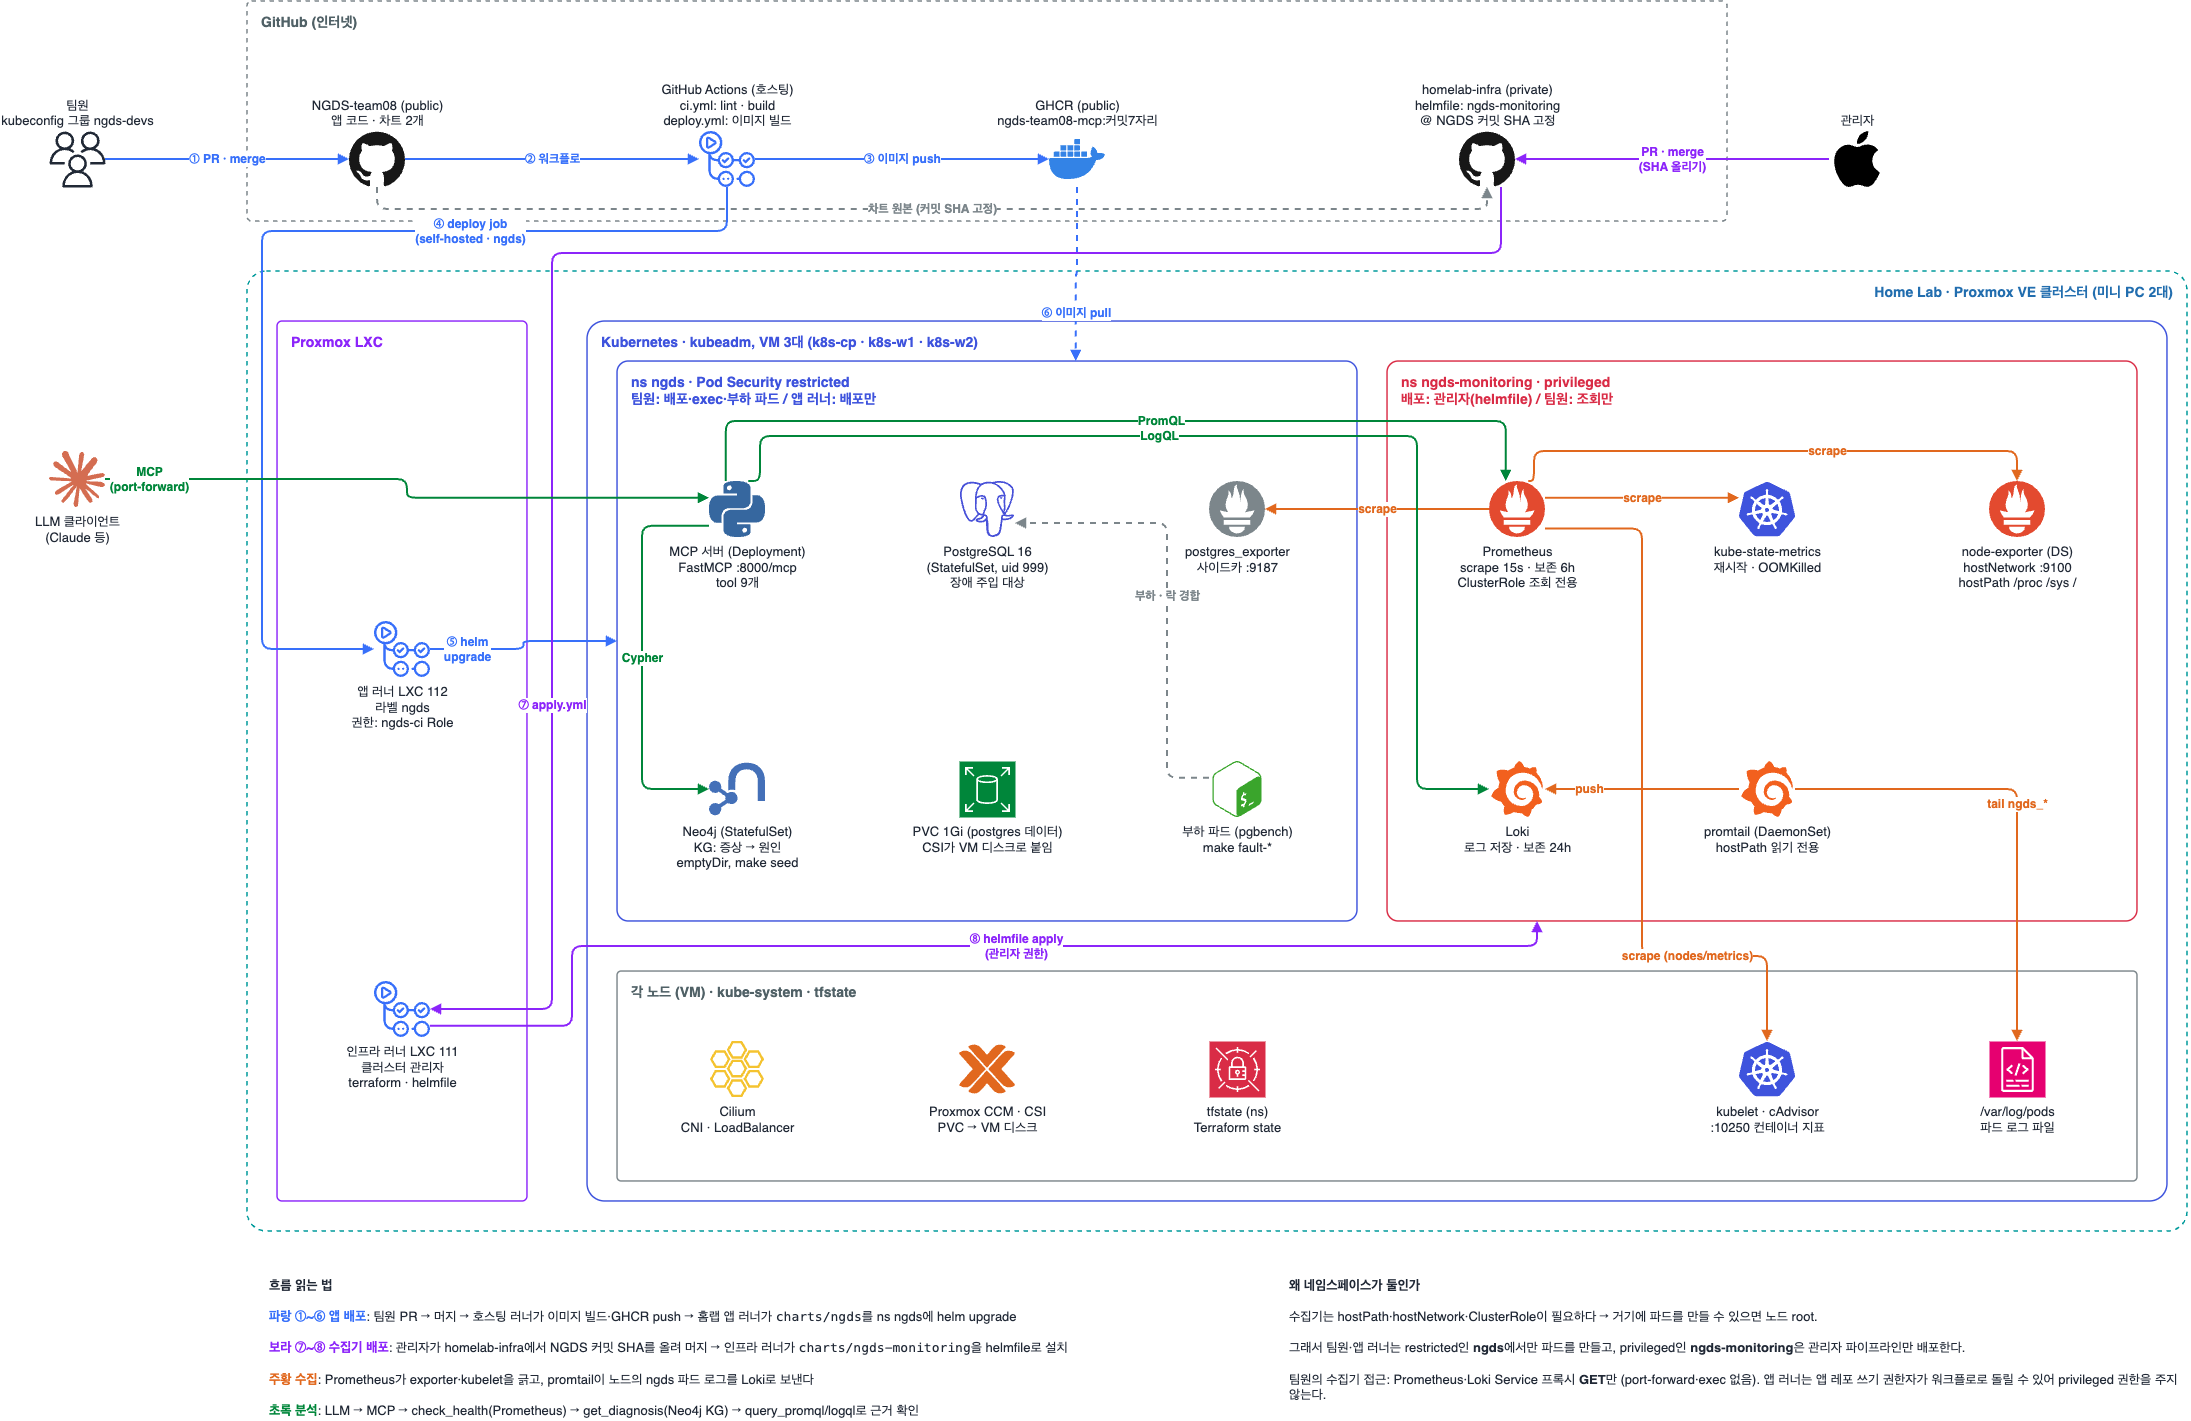
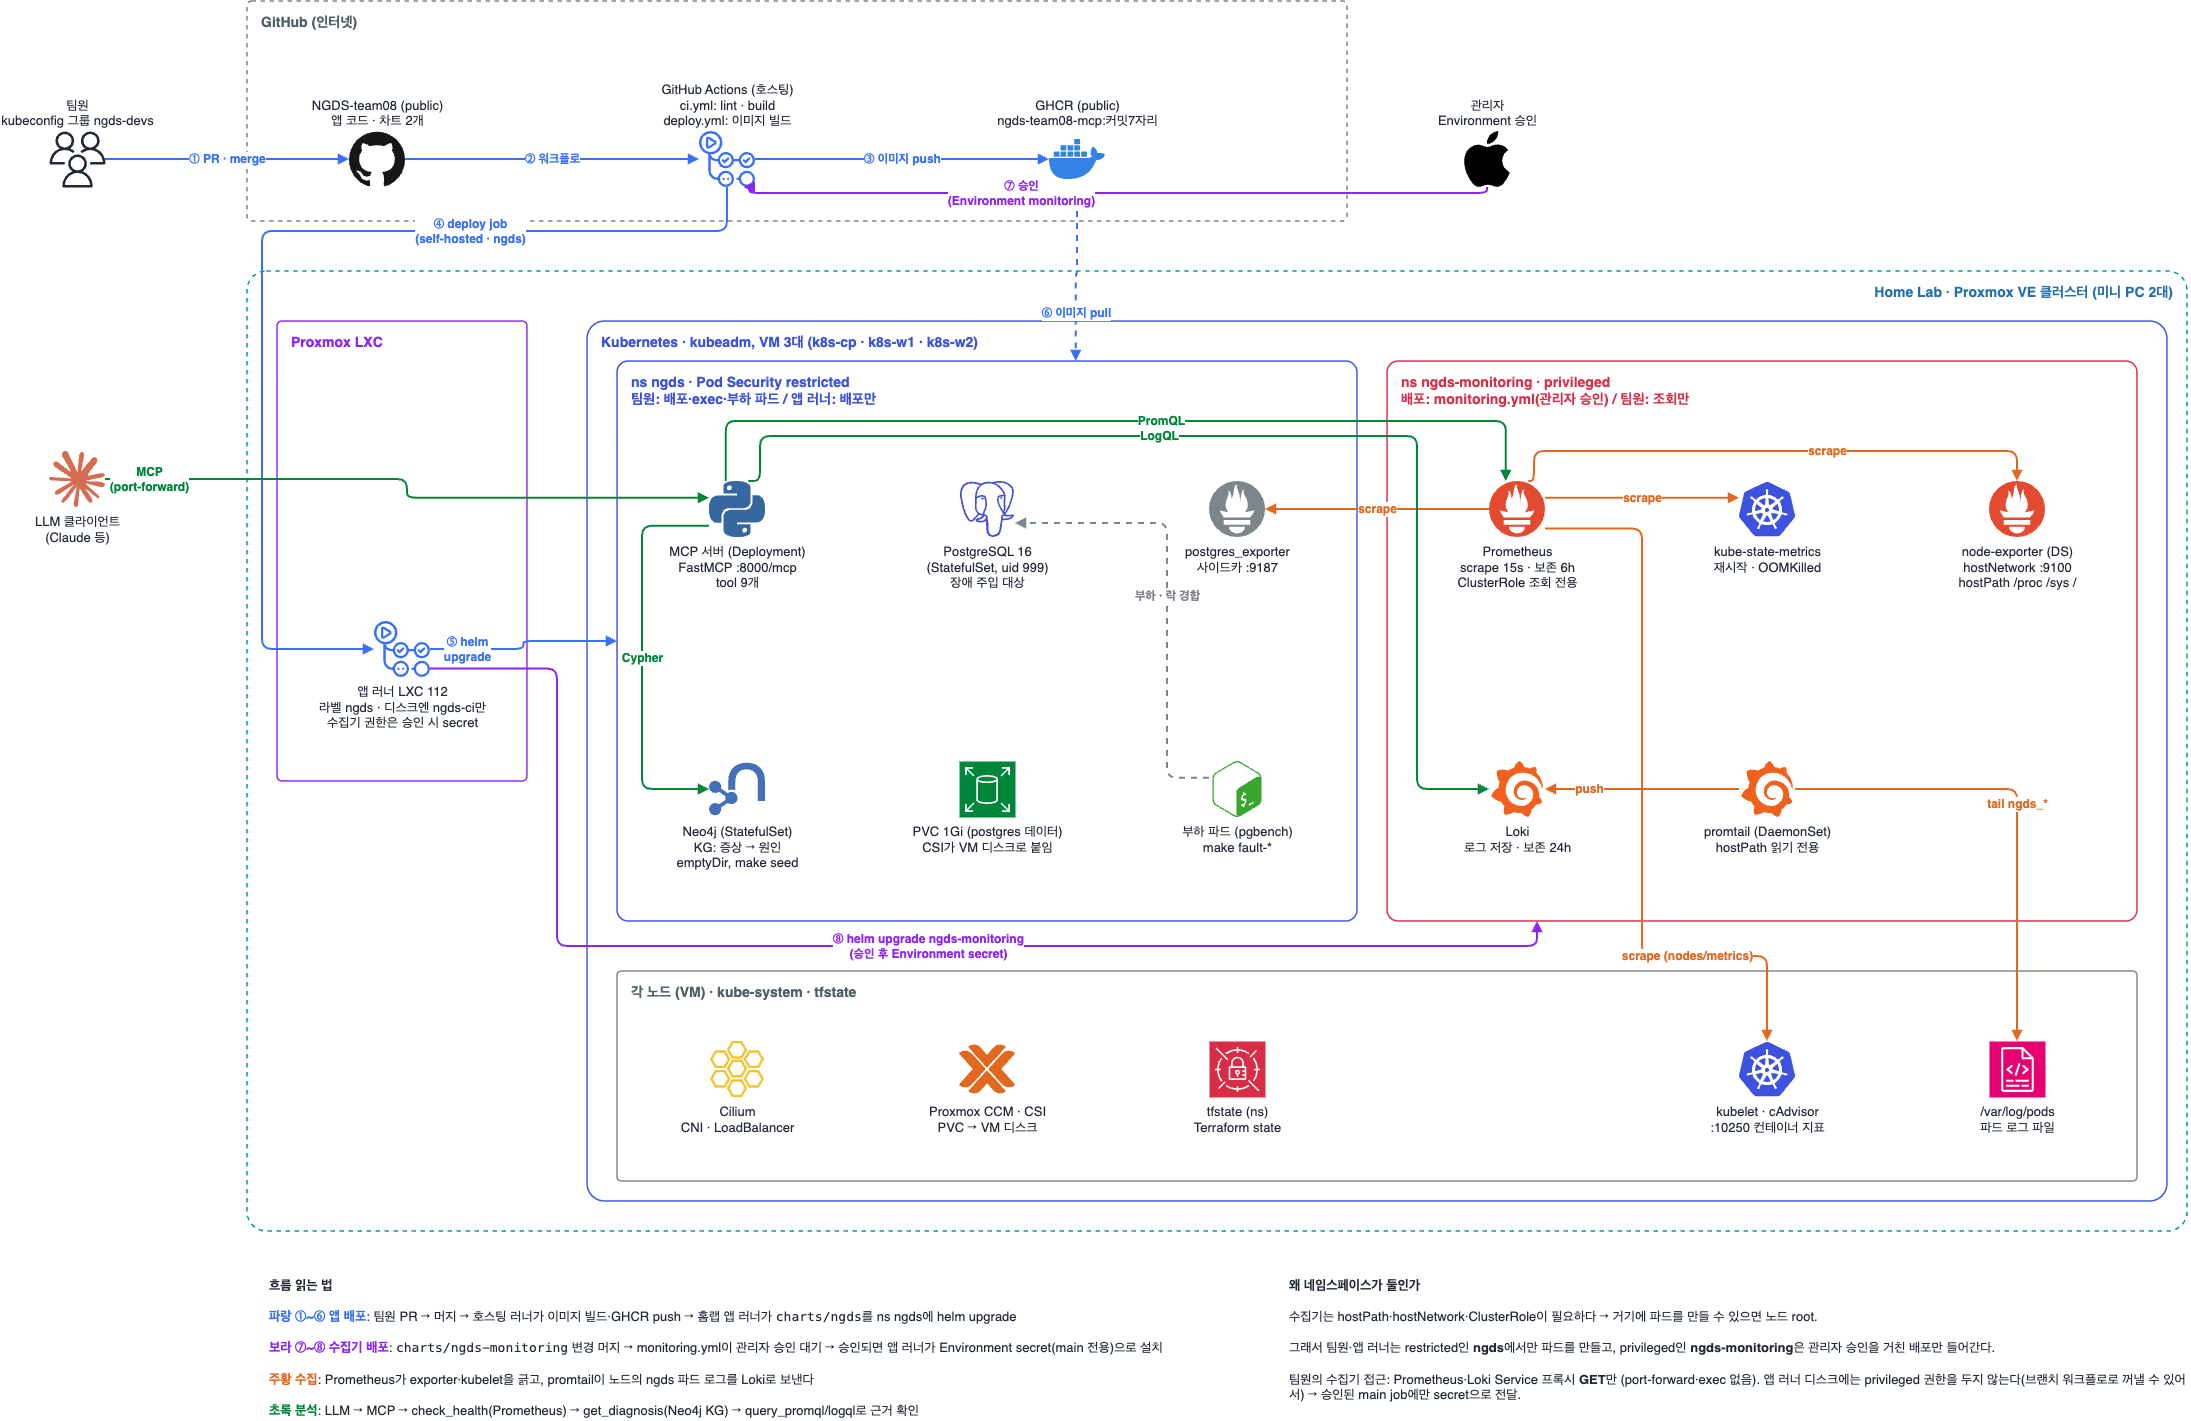
feat: 수집기도 이 레포에서 배포 — monitoring.yml + Environment 승인
- kubeconfig(그룹 ngds-monitoring-ci)는 Environment monitoring secret에만 (main 브랜치 + 관리자 승인), 러너 디스크엔 없음
- ClusterRole은 차트에서 빼서 cluster/namespace-rbac.yaml(관리자)로 (ngds-prometheus, ngds-kube-state-metrics)
- runner-setup.sh가 Environment·secret도 만들고 갱신
- README·구성도 갱신

diff --git a/docs/generators/architecture.py b/docs/generators/architecture.py
@@ -29,19 +29,17 @@ R,L,T,B=(1,.5),(0,.5),(.5,0),(.5,1)
 BLUE,RED,GH,ORG,GRN,PUR,GRY="#326CE5","#DD344C","#2088FF","#E57000","#1E8E3E","#8C4FFF","#879196"
 
 # ---------- 외부: GitHub ----------
-grp("GitHub (인터넷)",320,20,1480,220,GRY,"#5A6C72",dashed=1)
+grp("GitHub (인터넷)",320,20,1100,220,GRY,"#5A6C72",dashed=1)
 dev=users("팀원\nkubeconfig 그룹 ngds-devs",150,150,top=True)
 repo=logo("NGDS-team08 (public)\n앱 코드 · 차트 2개",450,150,"github","181717",top=True)
 act=logo("GitHub Actions (호스팅)\nci.yml: lint · build\ndeploy.yml: 이미지 빌드",800,150,"githubactions",GH[1:],top=True)
 ghcr=logo("GHCR (public)\nngds-team08-mcp:커밋7자리",1150,150,"docker","2496ED",top=True)
-infra=logo("homelab-infra (private)\nhelmfile: ngds-monitoring\n@ NGDS 커밋 SHA 고정",1560,150,"github","181717",top=True)
-adm=logo("관리자",1930,150,"apple","000000",top=True)
+adm=logo("관리자\nEnvironment 승인",1560,150,"apple","000000",top=True)
 
 # ---------- 홈랩 ----------
 grp("Home Lab  ·  Proxmox VE 클러스터 (미니 PC 2대)",320,290,1940,960,"#00A4A6","#147EBA",dashed=1,align="right")
-grp("Proxmox LXC",350,340,250,880,PUR,PUR)
-appr=logo("앱 러너 LXC 112\n라벨 ngds\n권한: ngds-ci Role",475,640,"githubactions",GH[1:])
-infr=logo("인프라 러너 LXC 111\n클러스터 관리자\nterraform · helmfile",475,1000,"githubactions",GH[1:])
+grp("Proxmox LXC",350,340,250,460,PUR,PUR)
+appr=logo("앱 러너 LXC 112\n라벨 ngds · 디스크엔 ngds-ci만\n수집기 권한은 승인 시 secret",475,640,"githubactions",GH[1:])
 
 grp("Kubernetes  ·  kubeadm, VM 3대 (k8s-cp · k8s-w1 · k8s-w2)",660,340,1580,880,BLUE,BLUE)
 gn=grp("ns ngds  ·  Pod Security restricted\n팀원: 배포·exec·부하 파드 / 앱 러너: 배포만",690,380,740,560,BLUE,BLUE)
@@ -52,7 +50,7 @@ neo=logo("Neo4j (StatefulSet)\nKG: 증상 → 원인\nemptyDir, make seed",810,7
 pvc=aws("PVC 1Gi (postgres 데이터)\nCSI가 VM 디스크로 붙임",1060,780,"elastic_block_store",GRN)
 load=logo("부하 파드 (pgbench)\nmake fault-*",1310,780,"gnubash","4EAA25")
 
-gm=grp("ns ngds-monitoring  ·  privileged\n배포: 관리자(helmfile) / 팀원: 조회만",1460,380,750,560,RED,RED)
+gm=grp("ns ngds-monitoring  ·  privileged\n배포: monitoring.yml(관리자 승인) / 팀원: 조회만",1460,380,750,560,RED,RED)
 prom=logo("Prometheus\nscrape 15s · 보존 6h\nClusterRole 조회 전용",1590,500,"prometheus","E6522C")
 ksm=logo("kube-state-metrics\n재시작 · OOMKilled",1840,500,"kubernetes","326CE5")
 nexp=logo("node-exporter (DS)\nhostNetwork :9100\nhostPath /proc /sys /",2090,500,"prometheus","E6522C")
@@ -76,10 +74,8 @@ e(act,appr,"④ deploy job\n(self-hosted · ngds)",GH,ex=B,en=L,pts=[(800,250),(
 e(appr,gn,"⑤ helm\nupgrade",GH,ex=R,en=(0,.5),lx=-0.62)
 e(ghcr,gn,"⑥ 이미지 pull",GH,dashed=1,ex=B,en=(.62,0),lx=0.45)
 # ---------- 관리자 흐름 (보라) ----------
-e(adm,infra,"PR · merge\n(SHA 올리기)",PUR,ex=L,en=R)
-e(repo,infra,"차트 원본 (커밋 SHA 고정)",GRY,dashed=1,ex=B,en=B,pts=[(450,228),(1560,228)])
-e(infra,infr,"⑦ apply.yml",PUR,ex=(.75,1),en=R,pts=[(1574,272),(625,272),(625,1028)],lx=0.55)
-e(infr,gm,"⑧ helmfile apply\n(관리자 권한)",PUR,ex=(1,.8),en=(.2,1),pts=[(645,1045),(645,965),(1610,965)],lx=0.1)
+e(adm,act,"⑦ 승인\n(Environment monitoring)",PUR,ex=B,en=(.8,1),pts=[(1560,212),(822,212)],lx=0.25)
+e(appr,gm,"⑧ helm upgrade ngds-monitoring\n(승인 후 Environment secret)",PUR,ex=(1,.85),en=(.2,1),pts=[(630,688),(630,965),(1610,965)],lx=0.1)
 
 # ---------- 데이터 흐름 ----------
 e(prom,pgx,"scrape",ORG,ex=L,en=R)
@@ -96,13 +92,13 @@ e(load,pg,"부하 · 락 경합",GRY,dashed=1,ex=(0,.3),en=(1,.75),pts=[(1240,79
 
 text("""<b>흐름 읽는 법</b><br>
 <font color="#2088FF"><b>파랑 ①~⑥ 앱 배포</b></font>: 팀원 PR → 머지 → 호스팅 러너가 이미지 빌드·GHCR push → 홈랩 앱 러너가 <code>charts/ngds</code>를 ns ngds에 helm upgrade<br>
-<font color="#8C4FFF"><b>보라 ⑦~⑧ 수집기 배포</b></font>: 관리자가 homelab-infra에서 NGDS 커밋 SHA를 올려 머지 → 인프라 러너가 <code>charts/ngds-monitoring</code>을 helmfile로 설치<br>
+<font color="#8C4FFF"><b>보라 ⑦~⑧ 수집기 배포</b></font>: <code>charts/ngds-monitoring</code> 변경 머지 → monitoring.yml이 관리자 승인 대기 → 승인되면 앱 러너가 Environment secret(main 전용)으로 설치<br>
 <font color="#E57000"><b>주황 수집</b></font>: Prometheus가 exporter·kubelet을 긁고, promtail이 노드의 ngds 파드 로그를 Loki로 보낸다<br>
 <font color="#1E8E3E"><b>초록 분석</b></font>: LLM → MCP → check_health(Prometheus) → get_diagnosis(Neo4j KG) → query_promql/logql로 근거 확인""",340,1290,1000,140)
 text("""<b>왜 네임스페이스가 둘인가</b><br>
 수집기는 hostPath·hostNetwork·ClusterRole이 필요하다 → 거기에 파드를 만들 수 있으면 노드 root.<br>
-그래서 팀원·앱 러너는 restricted인 <b>ngds</b>에서만 파드를 만들고, privileged인 <b>ngds-monitoring</b>은 관리자 파이프라인만 배포한다.<br>
-팀원의 수집기 접근: Prometheus·Loki Service 프록시 <b>GET</b>만 (port-forward·exec 없음). 앱 러너는 앱 레포 쓰기 권한자가 워크플로로 돌릴 수 있어 privileged 권한을 주지 않는다.""",1360,1290,900,140)
+그래서 팀원·앱 러너는 restricted인 <b>ngds</b>에서만 파드를 만들고, privileged인 <b>ngds-monitoring</b>은 관리자 승인을 거친 배포만 들어간다.<br>
+팀원의 수집기 접근: Prometheus·Loki Service 프록시 <b>GET</b>만 (port-forward·exec 없음). 앱 러너 디스크에는 privileged 권한을 두지 않는다(브랜치 워크플로로 꺼낼 수 있어서) → 승인된 main job에만 secret으로 전달.""",1360,1290,900,140)
 
 diagram='<diagram name="NGDS 아키텍처" id="ngds"><mxGraphModel dx="2300" dy="1550" grid="1" gridSize="10" guides="1" tooltips="1" connect="1" arrows="1" fold="1" page="1" pageScale="1" pageWidth="2300" pageHeight="1460" math="0" shadow="0"><root><mxCell id="0"/><mxCell id="1" parent="0"/>'+"".join(cells)+'</root></mxGraphModel></diagram>'
 open('docs/architecture.drawio','w').write('<mxfile host="drawio">'+diagram+'</mxfile>')

diff --git a/README.md b/README.md
@@ -13,10 +13,12 @@ MAPE-K 관점에서 Knowledge는 그래프로 외부화하고, Analyze는 LLM과
 | 네임스페이스 | Pod Security | 내용 | 배포 주체 | 팀원 권한 |
 |---|---|---|---|---|
 | `ngds` | restricted | postgres(+exporter 사이드카), neo4j, mcp — `charts/ngds` | main 머지 → `deploy.yml` → 앱 러너(LXC 112, 라벨 `ngds`) | 배포·exec·port-forward·부하 파드 생성 |
-| `ngds-monitoring` | privileged | Prometheus, Loki, promtail, node-exporter, kube-state-metrics — `charts/ngds-monitoring` | 홈랩 인프라 레포 helmfile(관리자), 이 레포 커밋 SHA로 고정 | 조회·로그, Prometheus·Loki Service 프록시만 (port-forward 없음) |
+| `ngds-monitoring` | privileged | Prometheus, Loki, promtail, node-exporter, kube-state-metrics — `charts/ngds-monitoring` | main 머지 → `monitoring.yml` → **관리자 승인** 후 앱 러너 | 조회·로그, Prometheus·Loki Service 프록시 GET만 (port-forward 없음) |
 
 - **두 네임스페이스로 나눈 이유:** 수집기는 hostPath, hostNetwork, ClusterRole이 필요하다. 그 네임스페이스에 파드를 만들 수 있으면 노드 root를 잡을 수 있다. 그래서 팀원과 앱 러너는 restricted인 `ngds`에서만 파드를 만든다.
-- **`charts/ngds-monitoring`을 바꾸려면:** 이 레포에서 PR을 머지한 뒤, 관리자가 인프라 레포의 고정 SHA를 올려야 반영된다.
+- **`charts/ngds-monitoring`을 바꾸려면:** 이 레포에서 PR을 머지하면 `monitoring.yml`이 GitHub Environment `monitoring`에서 관리자 승인을 기다린다. 승인하면 배포된다.
+  - 배포용 kubeconfig(그룹 `ngds-monitoring-ci`)는 러너 디스크가 아니라 Environment secret에만 있다. 이 secret은 main 브랜치 job에만 전달된다. 그래서 브랜치에 워크플로를 push해도 privileged 권한을 얻을 수 없다.
+  - ClusterRole은 차트에 넣지 않는다. 관리자가 `make cluster-init`으로 만든다.
 - **MCP의 수집기 주소:** `prometheus.ngds-monitoring:9090`, `loki.ngds-monitoring:3100`.
 - **Prometheus가 kubelet/cAdvisor를 긁는 방법:** API 서버 프록시(`nodes/proxy`, kubelet exec까지 열리는 권한)는 쓰지 않는다. 노드 `:10250`에 직접 붙고 `nodes/metrics` 권한만 쓴다.
 - **kube-state-metrics 권한:** 수집하는 리소스만 읽는다(Secret 제외).
@@ -28,6 +30,7 @@ MAPE-K 관점에서 Knowledge는 그래프로 외부화하고, Analyze는 LLM과
 |---|---|---|---|
 | `ci.yml` | PR → main | GitHub 호스팅 | py_compile, `bash -n`, 두 차트 lint/template, docker build |
 | `deploy.yml` | main push(`src/`, `catalog/`, `charts/ngds/`, `Dockerfile`, 의존성), 수동 | 호스팅(빌드·GHCR push) → 앱 러너(배포) | `helm upgrade --install ngds charts/ngds`, 태그 = 커밋 7자리 |
+| `monitoring.yml` | main push(`charts/ngds-monitoring/`), 수동 | 앱 러너 + Environment `monitoring`(main만, 관리자 승인) | `helm upgrade --install ngds-monitoring`. kubeconfig는 job 동안만 임시 파일 |
 
 배포는 `helm upgrade`로 차트 기본값을 다시 적용한다. 그래서 장애 주입으로 바꾼 limit 같은 값은 배포할 때마다 원복된다.
 
@@ -41,10 +44,10 @@ MAPE-K 관점에서 Knowledge는 그래프로 외부화하고, Analyze는 LLM과
 ```bash
 make cluster-init                                  # 네임스페이스 2개·권한 (재적용 가능)
 cluster/issue-kubeconfig.sh <팀원이름> [API 주소]   # 팀원 kubeconfig (그룹 ngds-devs, 90일)
-cluster/runner-setup.sh                            # 앱 러너 등록 (그룹 ngds-ci, 90일마다 재실행해 kubeconfig 갱신)
+cluster/runner-setup.sh                            # 앱 러너 등록 + Environment monitoring·secret (90일마다 재실행해 kubeconfig 갱신)
 ```
-- 프로젝트를 끝낼 때: 인프라 레포에서 `ngds-monitoring` 릴리스를 제거한 뒤 `kubectl delete ns ngds ngds-monitoring`.
-- **경계 규칙:** 앱 러너와 팀원은 `ngds` 안의 것만 설치한다. 클러스터 전역 리소스(ClusterRole, CRD 등)나 privileged 워크로드는 인프라 레포의 helmfile을 거친다(권한상으로도 막혀 있다).
+- 프로젝트를 끝낼 때: `helm uninstall ngds-monitoring -n ngds-monitoring` 후 `kubectl delete ns ngds ngds-monitoring`, ClusterRole `ngds-prometheus`·`ngds-kube-state-metrics` 삭제.
+- **경계 규칙:** 앱 러너와 팀원은 `ngds` 안의 것만 직접 설치한다. privileged인 `ngds-monitoring`은 관리자 승인을 거친 `monitoring.yml`만 배포한다. 클러스터 전역 리소스(ClusterRole, CRD 등)는 관리자만 만든다(권한상으로도 막혀 있다).
 
 ## 동작 흐름
 
